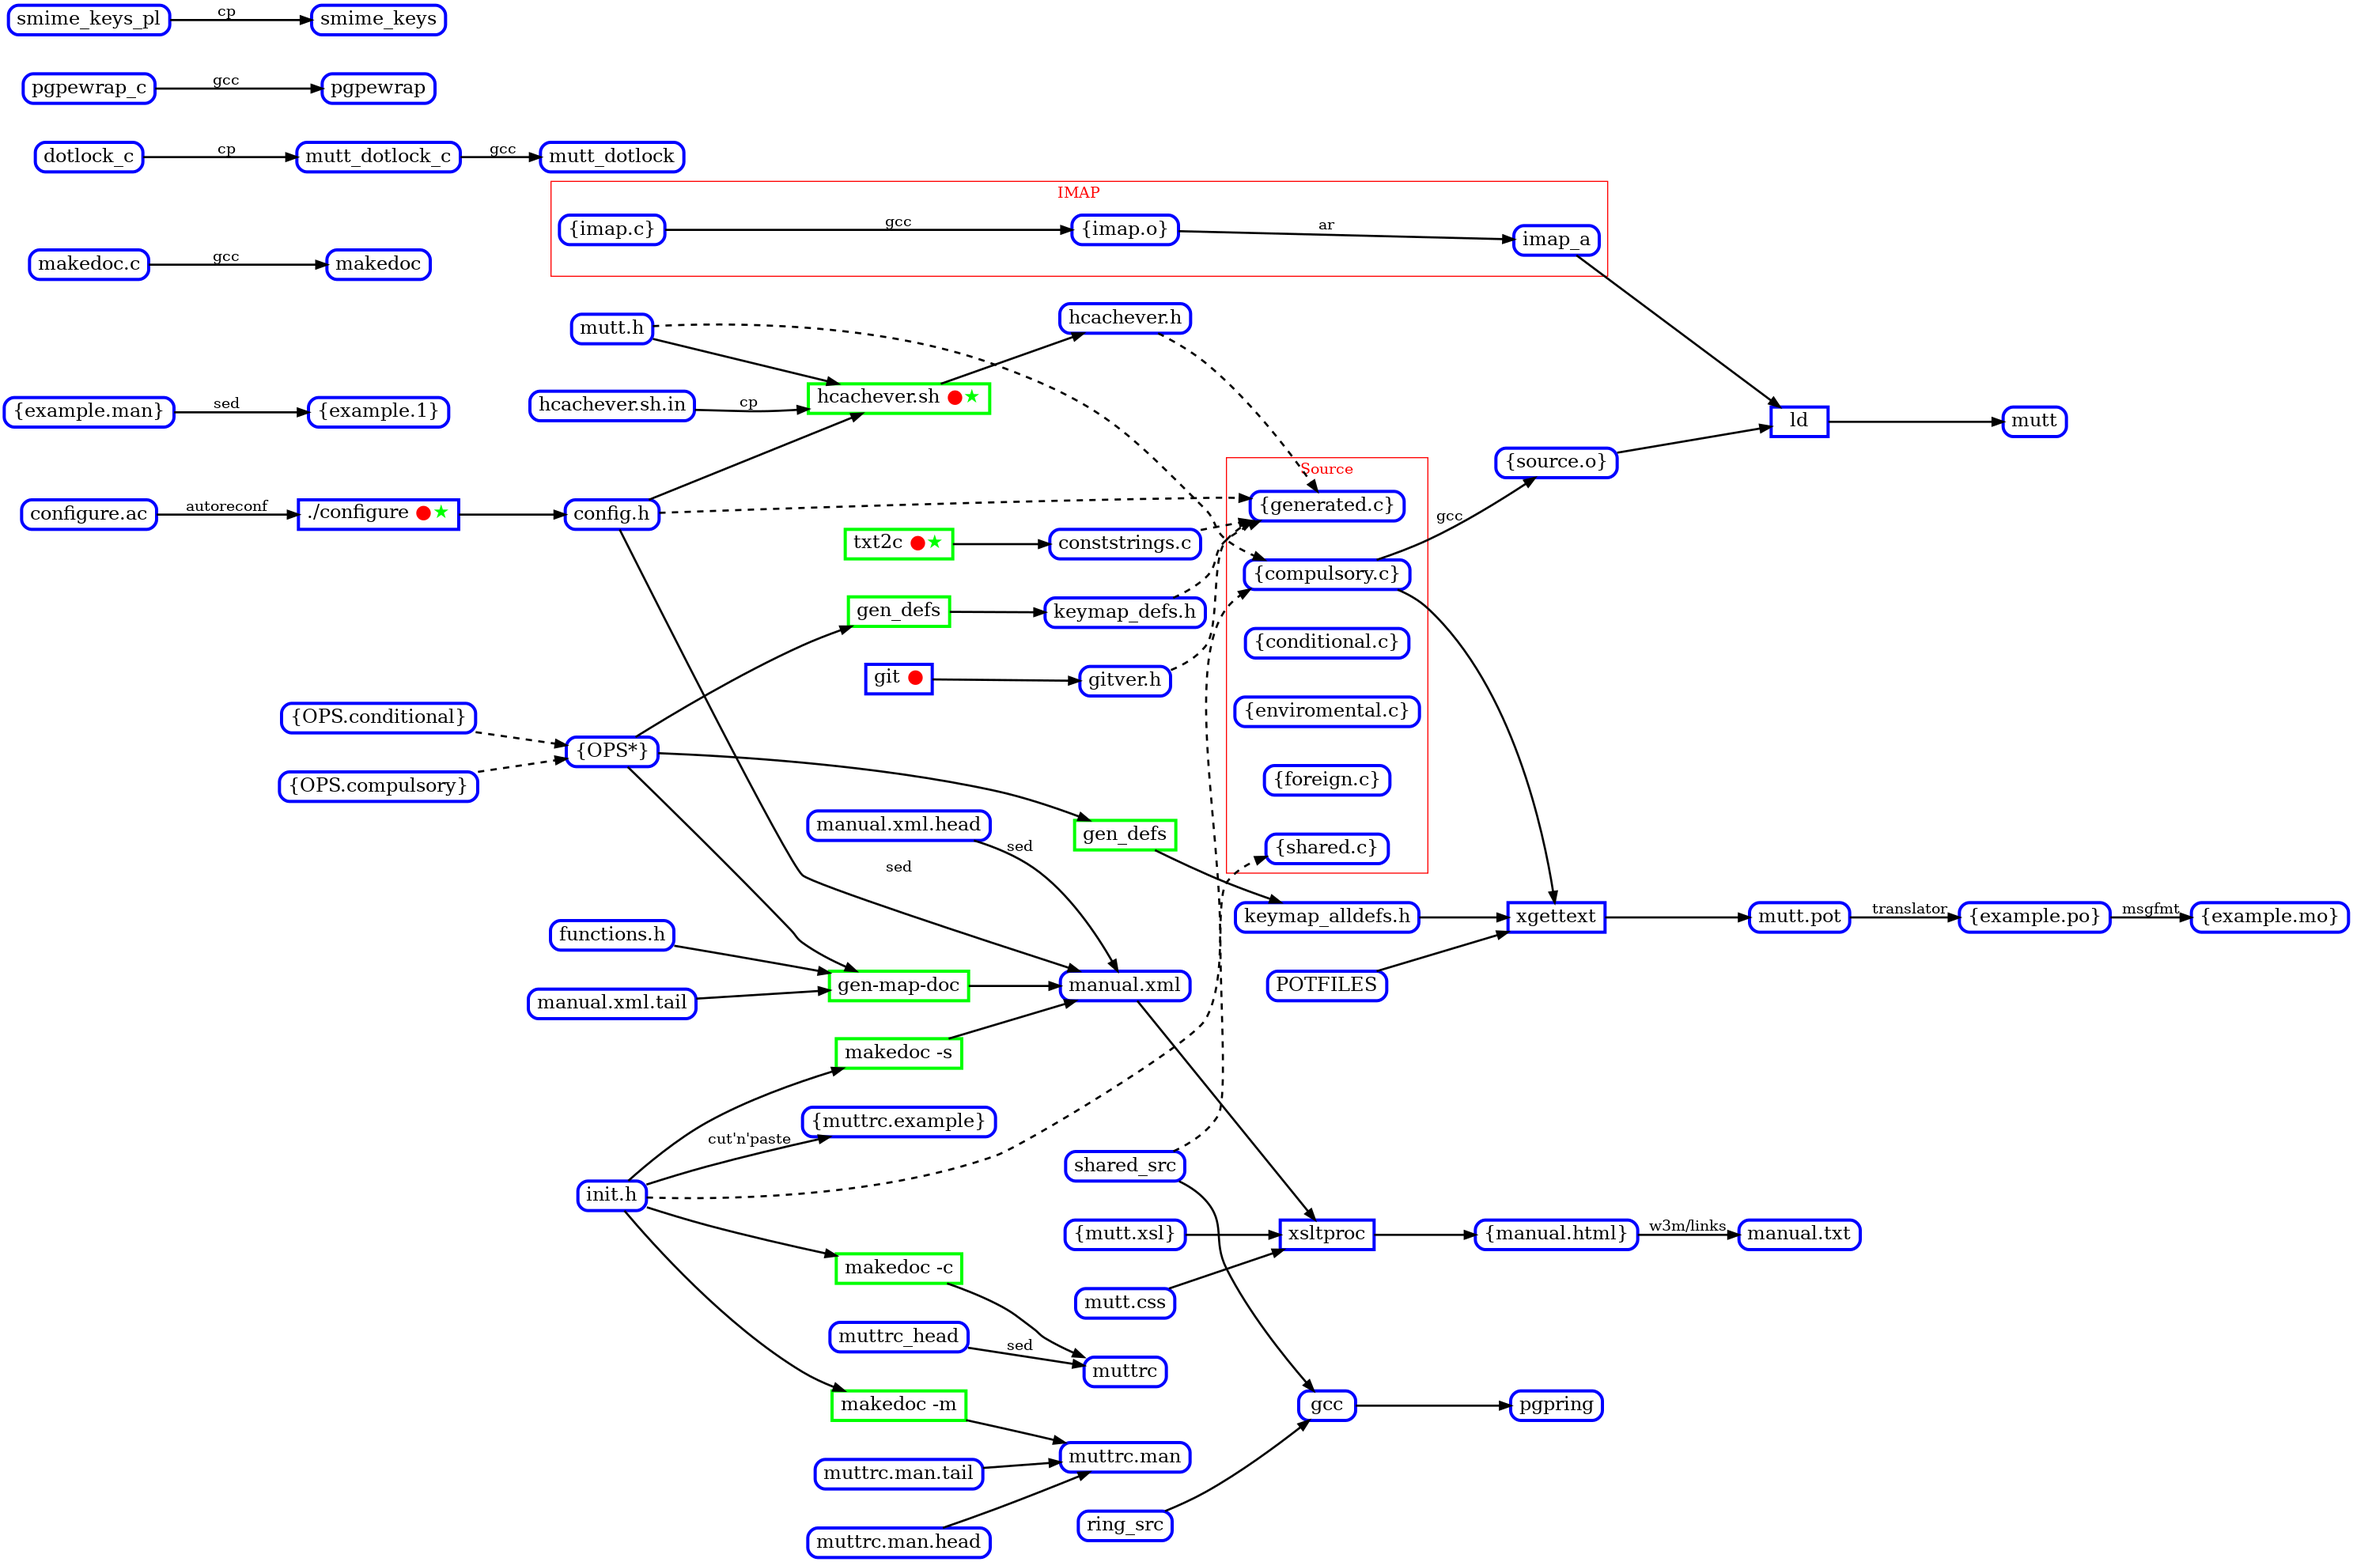
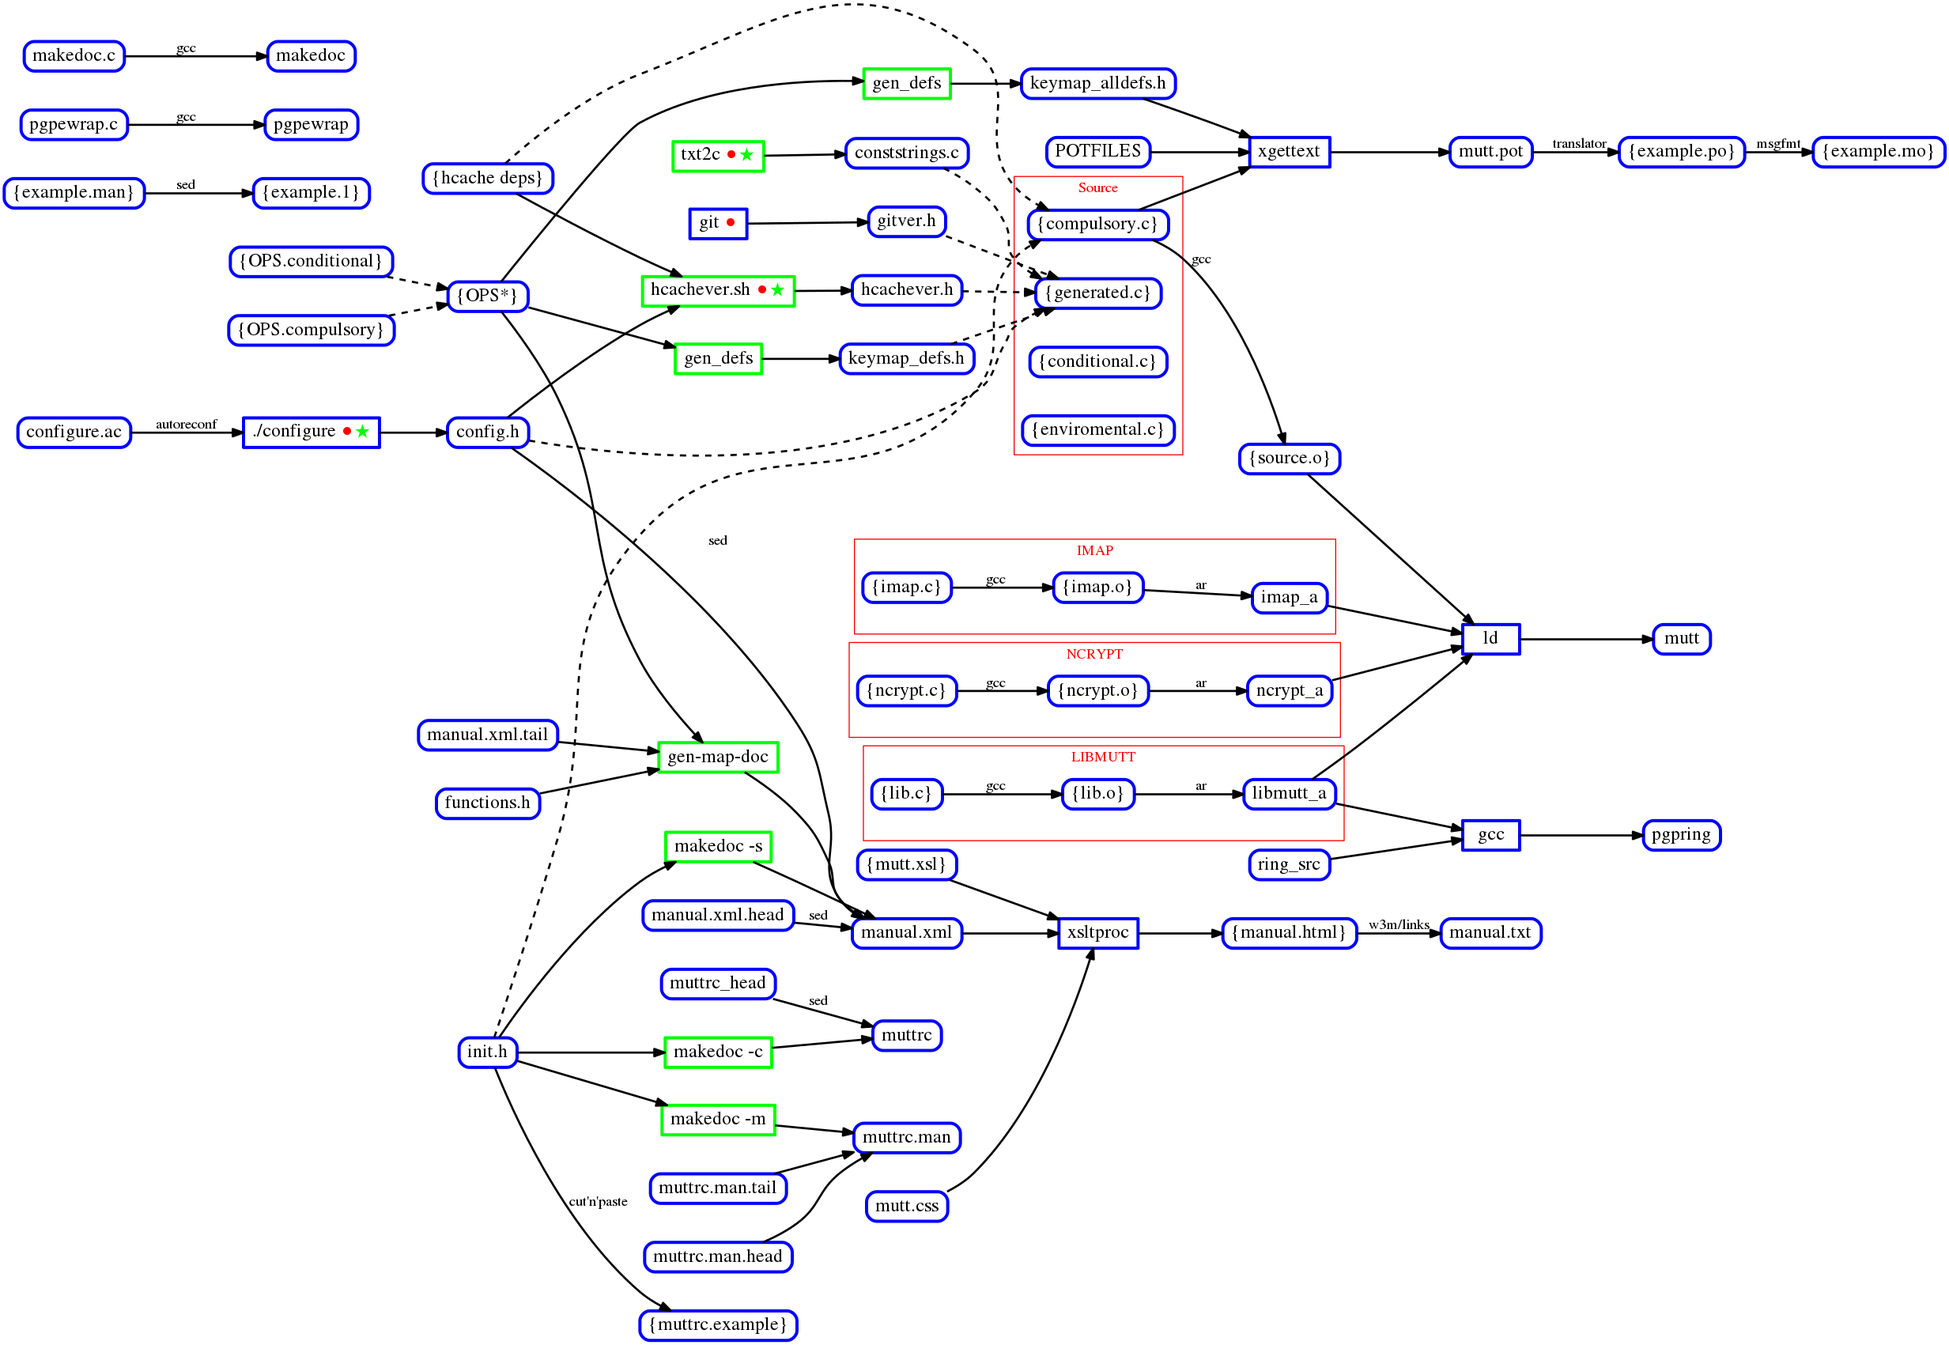
update to match latest build

diff --git a/_dev/make.md b/_dev/make.md
@@ -25,7 +25,6 @@ The diagram below shows how all the files fit together.
 - compulsory   : always compiled into mutt
 - conditional  : depends on user config
 - enviromental : depends on OS's available libraries
-- foreign      : 3rd-party source, e.g. regex
 - generated    : created from other files
 - shared       : used in multiple places
 
